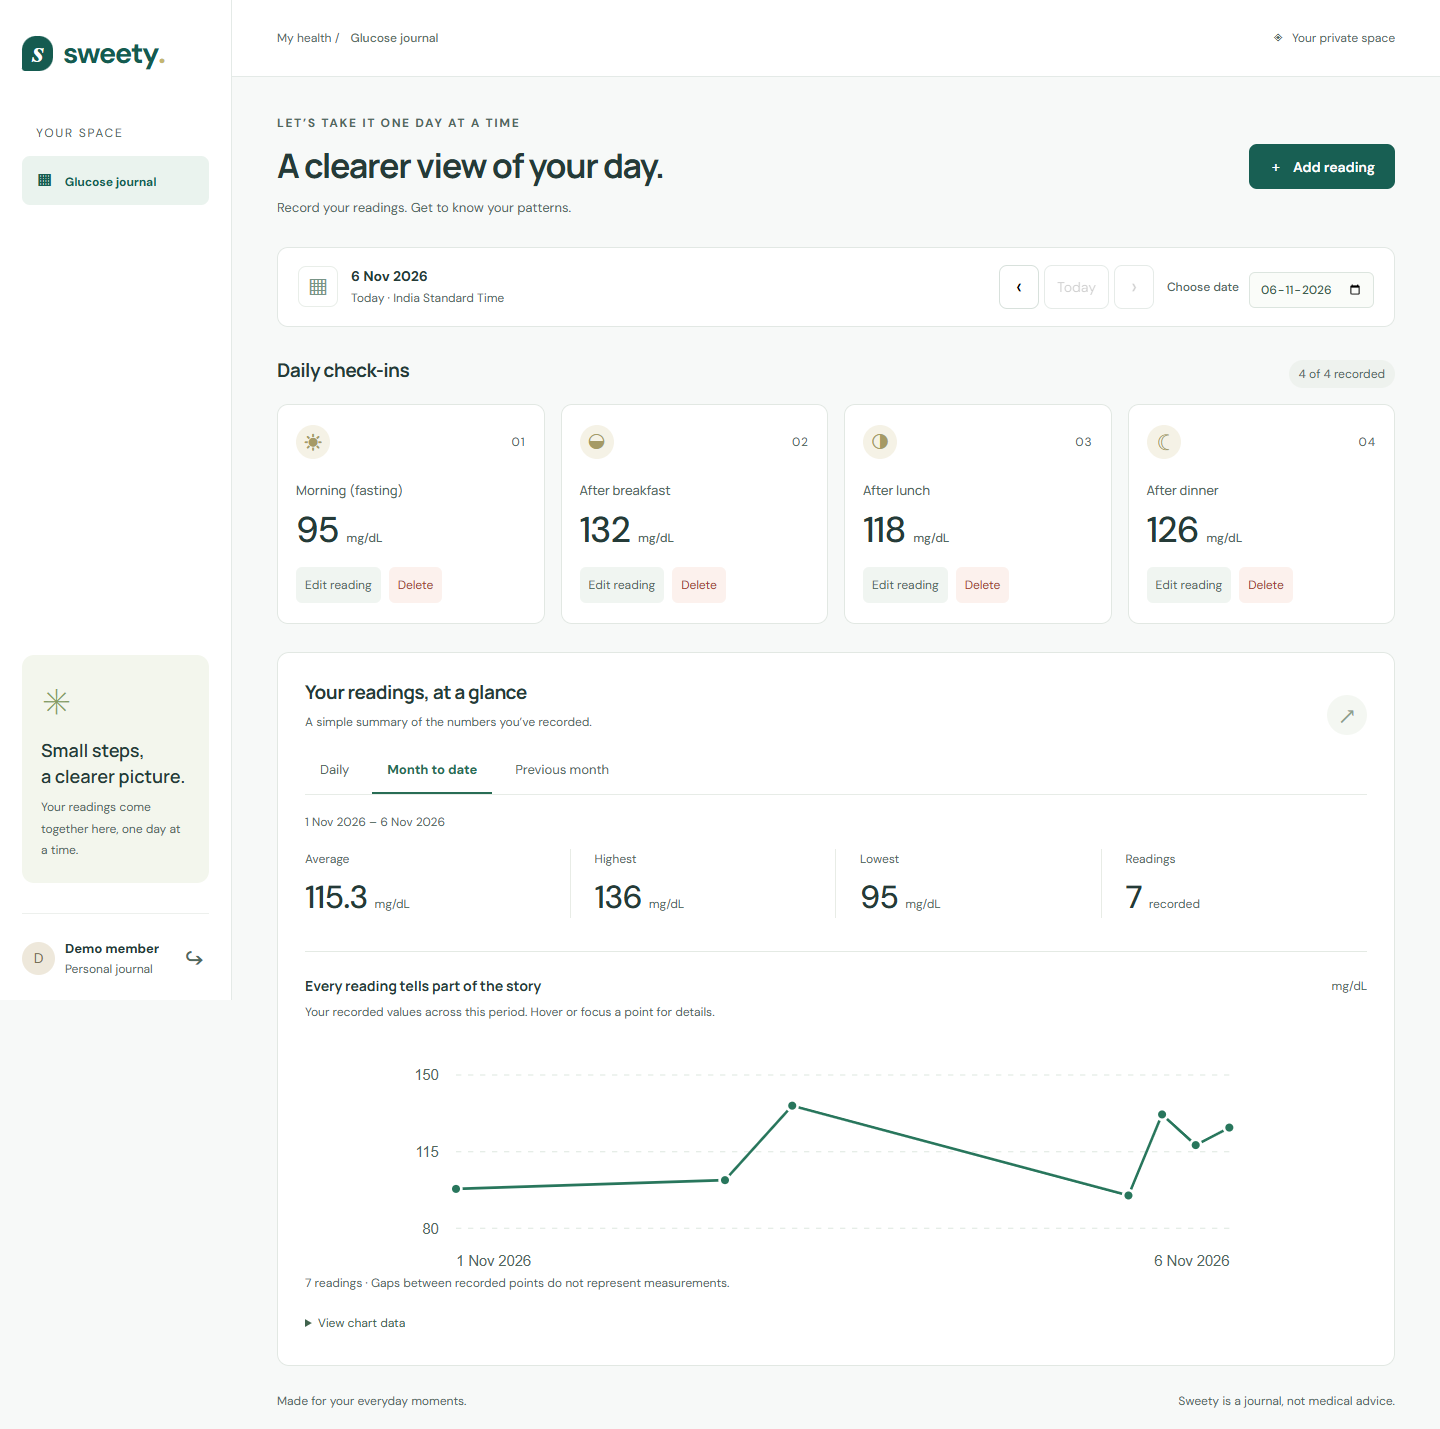
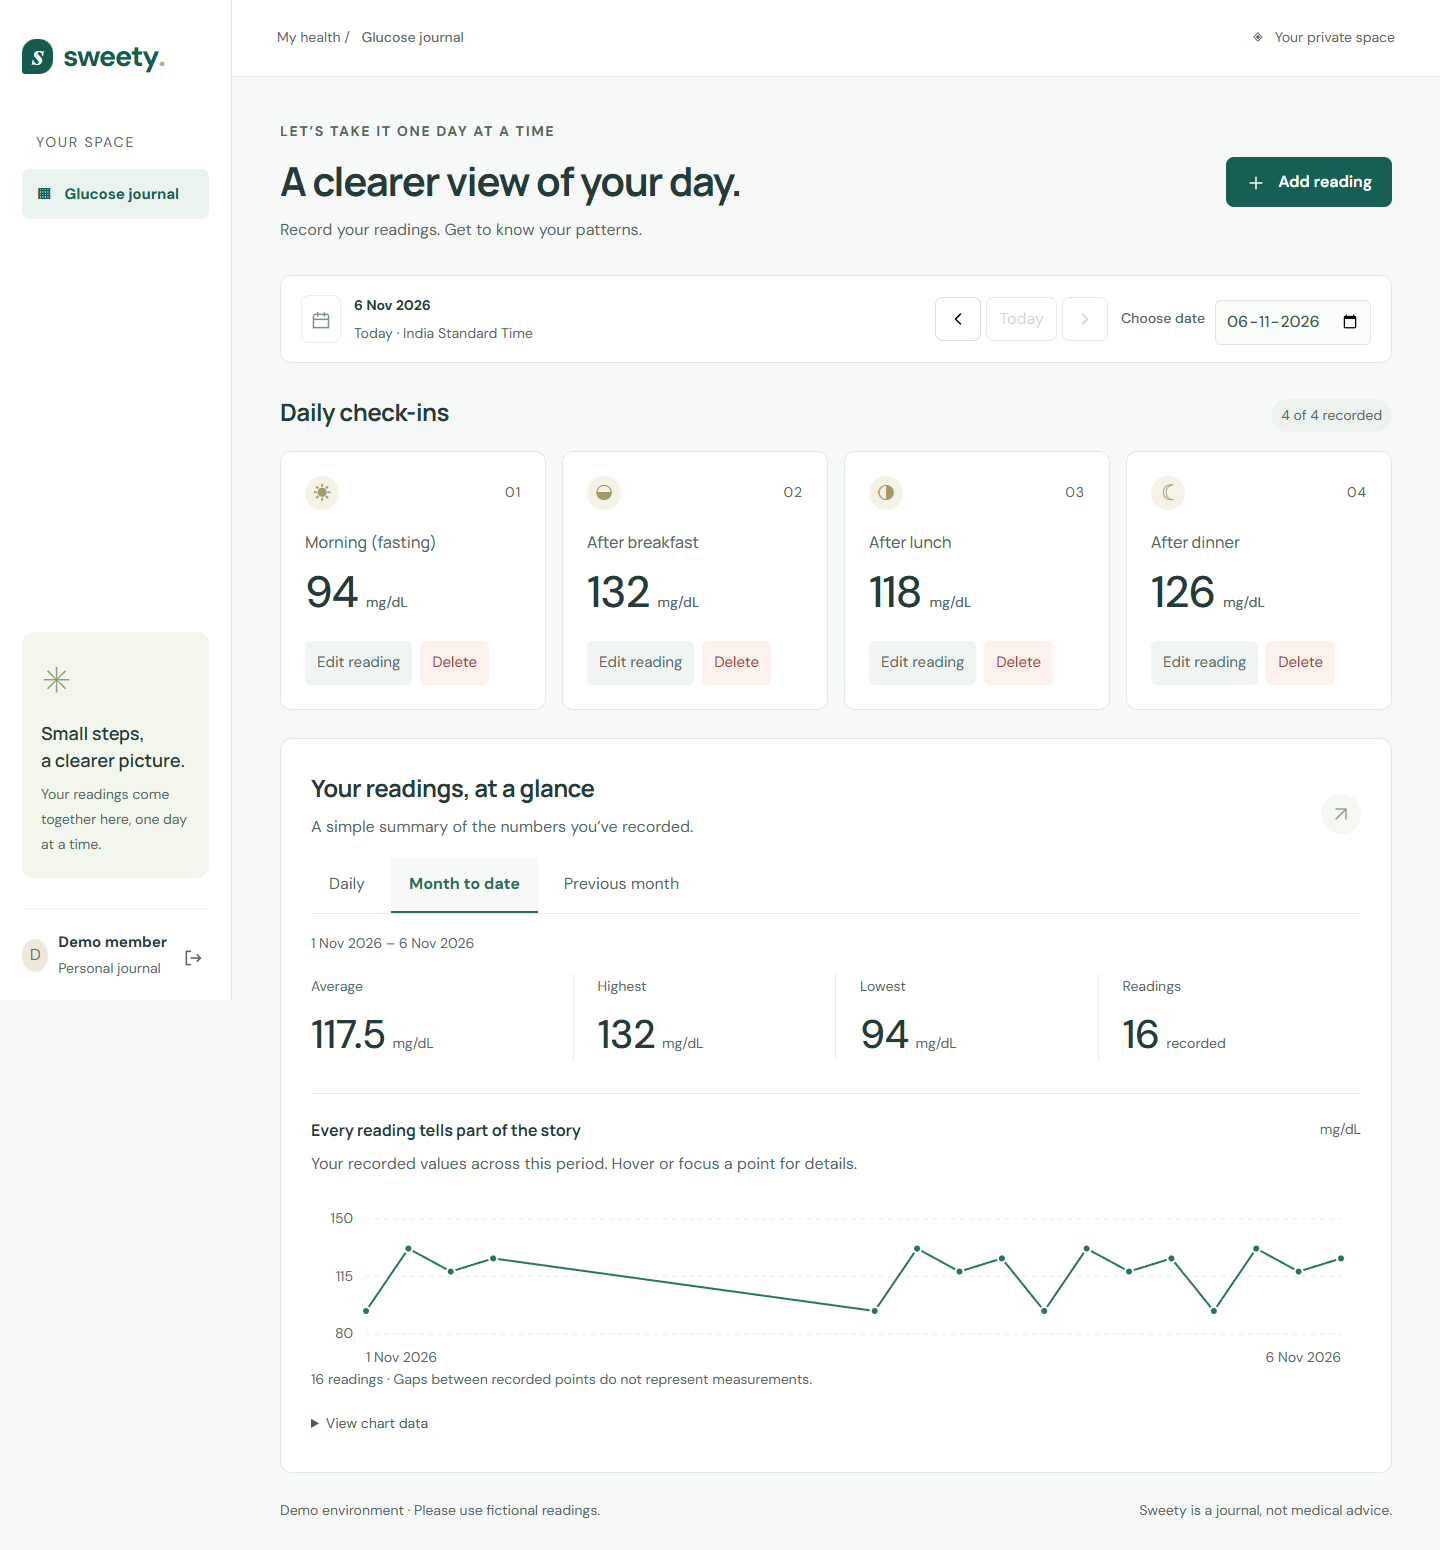
docs: publish hosted verification and refreshed screenshots
Add the live demo and fictional access details, document the Vercel/Neon runtime and rate limit, and record 29 passing tests with hosted CRUD, isolation, accessibility and responsive evidence. Replace assessment screenshots with the larger-type interface.

diff --git a/docs/VERIFICATION.md b/docs/VERIFICATION.md
@@ -1,42 +1,42 @@
 # Verification evidence
 
-Verified on 6 November 2026 with Node.js 24.19.0, npm 11.17.0, PostgreSQL 17 in Docker, and Chromium.
+Verified on 6 November 2026 with Node.js 24.19.0, npm 11, PostgreSQL 17 and Chromium/Playwright. Hosted app: [sweety-jade.vercel.app](https://sweety-jade.vercel.app).
 
 ## Automated checks
 
-All **28 tests passed**, with no failures or skips:
+All **29 tests passed** with no failures or skips: 13 backend/domain/seed tests and 16 frontend tests. Backend coverage includes bcrypt storage, ownership, invalid values/dates/slots, conflict handling, concurrent inserts/edits, database constraints, report calculations and repeatable normalized seeding. Frontend coverage includes form validation, API errors (including non-JSON 429 responses), chronological chart data, report recovery, keyboard tabs, dates, expired sessions and deletion states. The production build passes.
 
-- **13 backend/domain/seed tests:** bcrypt storage, login, user isolation, forbidden edits/deletes, value/date/slot validation, edit conflicts, concurrent creates and edits, database constraints, report updates, calendar boundaries, rounding and empty reports. The real seed script is run twice in an isolated schema to verify email normalization and repeatability.
-- **15 React component tests:** required/range/integer/future-date errors, edit request fields, server conflicts, accessible chart data, failed-report recovery, keyboard tabs, day navigation, expired sessions, deletion confirmation, pending requests and failed deletion.
+An earlier reviewed 28-test release also passed installation from a fresh archived checkout, migration/seed into an empty database, tests and build. The current 29-test version passed against the development database using disposable test schemas. A fresh-checkout run was not repeated for the typography/deployment changes. Installation reported zero known vulnerabilities when checked; this is not a security guarantee.
 
-A fresh archived checkout passed `npm ci`, migration into an empty database, demo seeding with a spaced/mixed-case email, all 28 tests and `npm run build`. Disposable test schemas and the verification database were removed afterwards. Setup did not rely on ignored local instructions, coaching files or existing app data. Installation reported zero known vulnerabilities at verification time; this is not a security guarantee.
+## Hosted flow
 
-## Browser checks
+The tested story is registration/login → journal → create/edit/delete → persisted PostgreSQL data → refreshed reports → logout. Vercel Services serves frontend/API on one HTTPS origin with Neon Free PostgreSQL in Singapore.
 
-The flow under test was registration/login → journal → add/edit/delete → report refresh → logout. Playwright exercised the actual app at `http://127.0.0.1:5173`.
+| Boundary or behavior   | Observed outcome                                                                                                                                                            |
+| ---------------------- | --------------------------------------------------------------------------------------------------------------------------------------------------------------------------- |
+| Page identity/render   | Correct URL/title, meaningful journal, no framework overlay                                                                                                                 |
+| API/database health    | GET /api/health returns 200 and {"ok":true}                                                                                                                                 |
+| Authentication         | Demo login 200; unauthenticated profile 401; logout returns to sign-in                                                                                                      |
+| Cookie/privacy         | HttpOnly, Secure, SameSite Strict, Path=/api; API Cache-Control is private/no-store                                                                                         |
+| Seed persistence       | 28 fictional readings persisted across the power interruption                                                                                                               |
+| Reports for 6 November | Daily 4, MTD 16, previous month 12; each average 117.5, high 132, low 94                                                                                                    |
+| Hosted CRUD            | New fictional account registered (201); 112 saved through UI, survived reload, edited to 119; average updated; confirmed delete reduced count to 0                          |
+| Validation             | Duplicate 409; future date 400; visible required-value feedback and focus on the invalid field                                                                              |
+| Ownership              | Demo account could not update/delete another account's reading: both 404                                                                                                    |
+| Preview isolation      | A preview-only reading was visible in preview while production stayed empty for that date; probe removed afterward                                                          |
+| Platform protection    | Active valid WAF rule combines POST login/register: 20 requests per IP per 600 seconds. Repeated invalid requests triggered 429; the UI displayed its friendly wait message |
+| Typography/layout      | 16px body text; 320/390/1024/1440px widths fit without horizontal page overflow; chart labels measure 14px at each width                                                    |
+| Enlarged presentation  | Chart labels scale to 28 screen pixels with 200% CSS zoom; 720px viewport reflow fits. This is a focused simulation, not full browser-zoom certification                    |
+| Keyboard               | Report ArrowRight selects/focuses the next tab; invalid-value submission focuses the value field                                                                            |
 
-| Check | Observed outcome |
-| --- | --- |
-| Page identity and render | Correct URL/title, meaningful content, no framework error overlay |
-| CRUD | Four slot readings displayed; edits update averages; confirmed deletion reduces count; adding the entry again restores it |
-| Required-value error | Visible error, invalid-field association and focus on the value input |
-| Report periods | November 6 produces November 1–6 and October 1–31; empty periods show a friendly state |
-| Failed report | Simulated HTTP 503 shows a distinct error; retry succeeds without stale or falsely empty data |
-| Deletion failure | Simulated HTTP 503 remains in the dialog and preserves the reading |
-| Day navigation | Previous/next/today update the selected day; next-day navigation is disabled on today |
-| Keyboard tabs | Arrow keys, Home and End move selection/focus and identify the active panel |
-| Session expiry | Simulated HTTP 401 returns to sign-in with an explanation; login recovers; stale notices clear |
-| Logout | Session clears and sign-in remains after reload |
-| Chart | Seven fictional readings match the chronological data table; point details are available on keyboard focus |
-| Responsive layout | Desktop 1440×1000 and mobile 390×844; no horizontal mobile overflow |
-| Console | No unexplained runtime errors; unauthenticated probes and deliberately injected HTTP failures produce expected network errors |
+Earlier local browser checks also verified simulated 503 retry, failed deletion preserving data, and 401 session recovery. Expected 401/400/409/429 network errors from these probes are not application crashes. No unexplained application error was observed in the checked flows.
 
-## Accessibility
+## Accessibility and screenshots
 
-Axe checks for WCAG 2 A/AA, 2.1 AA and 2.2 AA rules reported **zero violations** in the tested sign-in, desktop journal/chart, reading-error dialog, delete dialog and mobile journal states. Initial contrast failures in action buttons and chart labels were corrected. Manual checks covered keyboard report navigation, invalid-field focus and modal dismissal. Automated checks do not establish full accessibility conformance.
+Axe 4.11 checks for WCAG 2 A/AA, 2.1 AA and 2.2 AA reported **zero violations** in checked hosted sign-in, desktop journal/chart, mobile journal/chart, reading-error and delete-dialog states. Keyboard/focus checks supplement the automated audit. This does not establish complete accessibility conformance or screen-reader compatibility.
 
-## Screenshots and limitations
+[Daily journal](screenshots/daily-journal.png), [monthly trend](screenshots/monthly-trend.png), [mobile journal](screenshots/mobile-journal.png), [mobile trend](screenshots/mobile-trend.png), and [validation feedback](screenshots/reading-validation.png) were captured from the hosted app and visually inspected. All displayed data is fictional.
 
-[Desktop journal](screenshots/daily-journal.png), [monthly trend](screenshots/monthly-trend.png), [mobile journal](screenshots/mobile-journal.png), and [validation dialog](screenshots/reading-validation.png) show fictional account data. Each screenshot was inspected for typography, contrast, spacing, clipping and control readability.
+## Limitations
 
-Safari, Firefox and screen-reader testing remain unverified. There is no hosted production deployment. Production readiness limitations are described in the README.
+Safari, Firefox, actual browser 200% zoom controls and screen-reader testing remain unverified. Free hosting/database cold starts can delay first requests. The shared demo is editable by all visitors; individual accounts are separate. One empty fictional verification account remains in production; its test reading was deleted. Password recovery, per-session revocation, individual time zones, backup/restore drills and operational monitoring remain future work. This assessment environment is intended for fictional data.

diff --git a/README.md b/README.md
@@ -2,6 +2,10 @@
 
 A calm, personal blood glucose journal built with **React, Express and PostgreSQL**. Record four daily check-ins and explore daily, month-to-date and previous-month summaries.
 
+**[Open the live app](https://sweety-jade.vercel.app)** · [Source repository](https://github.com/GlenTheReb/sweety)
+
+Try the shared fictional demo with `demo@sweety.local` / `SweetyDemo2026!`, or create your own account using fictional details. The shared demo is editable by everyone who uses it. Please do not enter real health information in this assessment environment.
+
 ![Daily journal](docs/screenshots/daily-journal.png)
 
 ## Quick start
@@ -71,7 +75,7 @@ Invalid input returns 400, missing authentication 401, missing or inaccessible r
 
 Required features are implemented. Bonuses include PostgreSQL setup through `docker-compose.yml`, a line chart of actual readings with an accessible data table, and React Testing Library form tests. See the [requirements checklist](docs/REQUIREMENTS.md). The app intentionally avoids medical interpretation, target ranges and treatment recommendations. A reading is a journal entry, not clinical guidance.
 
-With more time: add per-account time zones, broader frontend regression tests, sign-in rate limiting, password recovery, session revocation, and a paginated historical view. A production deployment also needs HTTPS, a same-origin reverse proxy for the compiled client and API, managed secrets, backups, monitoring and restrictive database access. The supplied scripts target local assessment review, and the API binds to localhost. Google Fonts improve typography when online; system fonts remain available offline.
+With more time: add per-account time zones, broader browser regression coverage, password recovery, session revocation and a paginated historical view. The hosted assessment uses Vercel Services with HTTPS and same-origin frontend/API routing, Neon Free PostgreSQL in Singapore, sensitive environment variables and a free WAF rule limiting login/registration to 20 POST requests per IP per 10 minutes. API responses are private and not cached. Fonts are self-hosted with their licenses. This is an assessment demo; clinical use, backup/restore drills, operational monitoring and full accessibility certification are outside this delivery.
 
 ## Development
 

diff --git a/docs/ARCHITECTURE.md b/docs/ARCHITECTURE.md
@@ -27,3 +27,11 @@ Request failures have an explicit retry state rather than appearing as empty dat
 ## Verification boundaries
 
 Domain tests cover calendar boundaries and calculations. API tests exercise real PostgreSQL with separate users and concurrent writes inside a disposable schema. React Testing Library checks form behavior at the API boundary. Chromium checks cover the rendered workflow and responsive layout. See [verification evidence](VERIFICATION.md) for observed results and remaining limitations.
+
+## Hosted runtime and readable layout
+
+Vercel Services routes static Vite assets and Express API requests through one HTTPS origin. server/src/vercel.js initializes the app lazily without opening a local listening port. Each function instance reuses a bounded PostgreSQL pool registered with the Vercel lifecycle; records remain in Neon PostgreSQL across refreshes and instance restarts. Migration/seed commands can use a separate direct database connection. API responses use Cache-Control: private, no-store. Secrets are sensitive Vercel values, with separate session-signing secrets for production and preview. Preview database branches are configured separately from production.
+
+The hosted project has one free WAF rule: 20 combined POST login/registration requests per IP per 600 seconds. Rejected requests receive a platform response; the client handles non-JSON 429 responses with a useful retry message. Shared networks may share the same allowance. Local development does not inherit platform firewall rules.
+
+The visual system uses self-hosted licensed DM Sans/Manrope fonts, 16px body text and semantic type tokens. Reading cards use four columns on wide screens, two on tablets and one compact card per row on phones. TrendChart observes its actual rendered width and derives the SVG coordinate system from it, preserving 14px chart labels rather than shrinking all text with a fixed-width viewBox. Its observer disconnects on unmount. The accessible chronological table remains available alongside the chart.

diff --git a/docs/REQUIREMENTS.md b/docs/REQUIREMENTS.md
@@ -20,7 +20,7 @@ Required behavior and deliverables for the glucose tracker.
 | Highest, lowest, average to one decimal, count | Reports.js and UI formatting; calculation tests |
 | Empty report state | Null statistics and friendly message; domain/browser checks |
 | Daily readings listed with slots | Four slot cards include recorded value/unit and edit/delete controls |
-| A few meaningful tests | 28 domain/API/seed and React component tests |
+| A few meaningful tests | 29 domain/API/seed and React component tests |
 | Public repo, regular commits | https://github.com/GlenTheReb/sweety; incremental implementation commits |
 | README installation/database/server/client/tests | Root README quick start and commands table |
 | Complete .env.example without secrets | Placeholder JWT/demo password, local-only database values; actual .env ignored |
